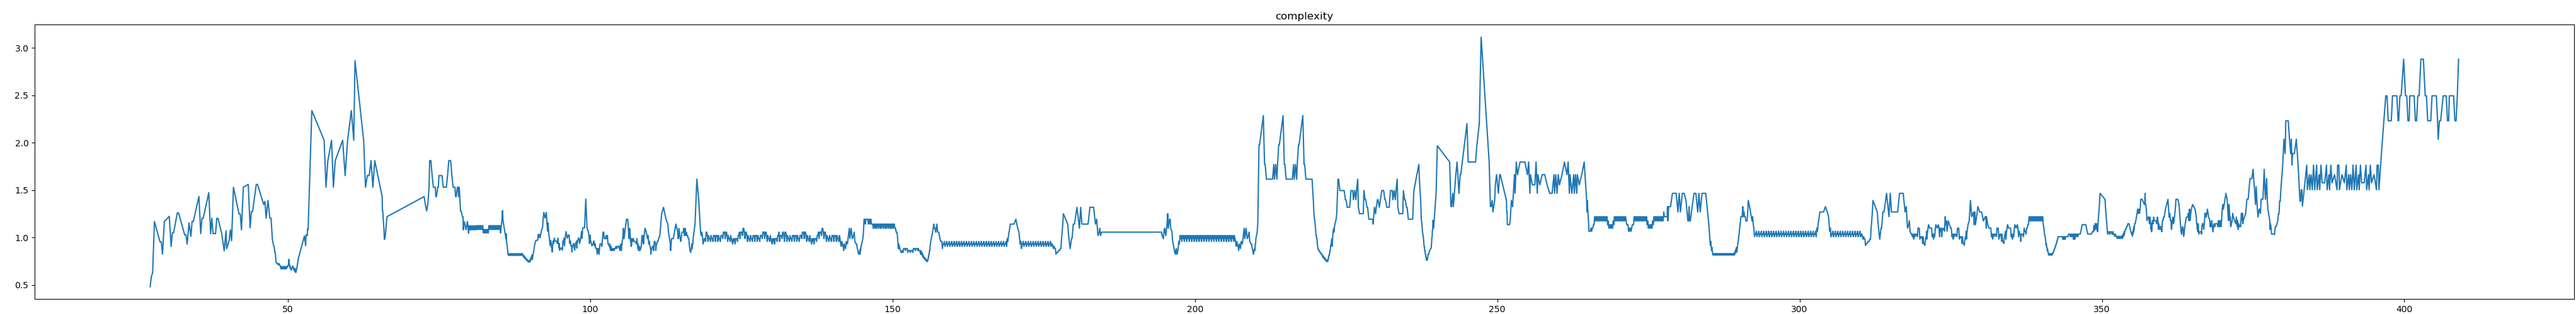
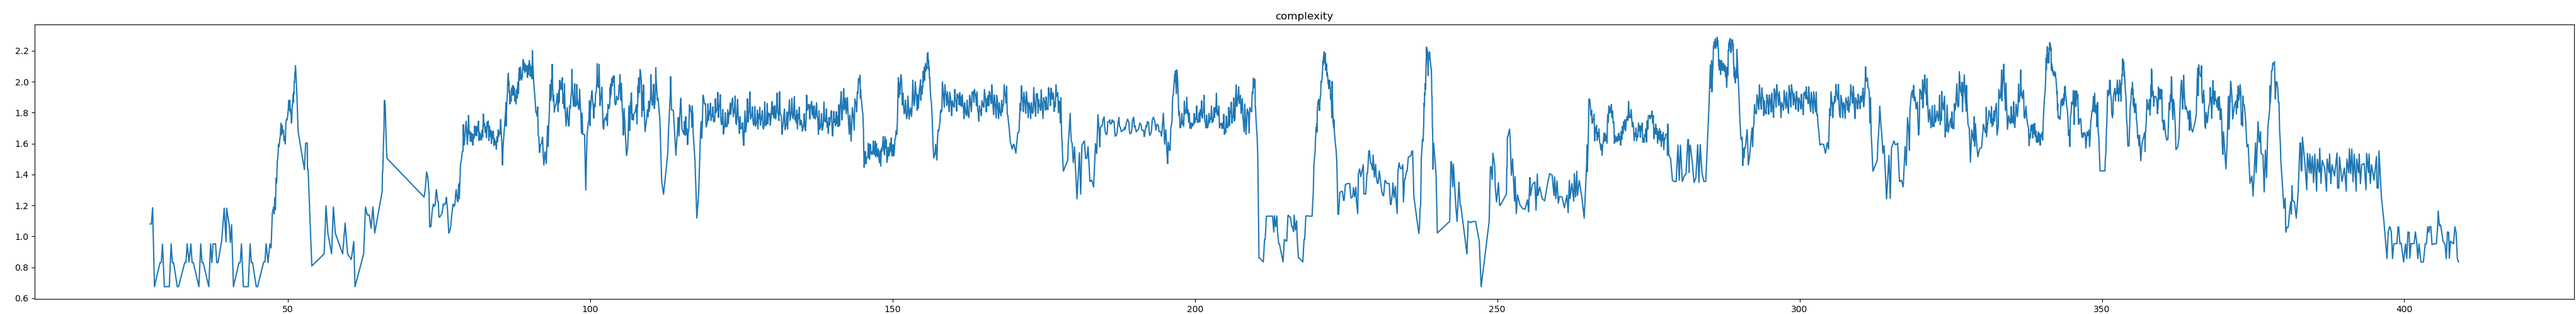
Corrected Calc_complexity

diff --git a/calc_complexity.py b/calc_complexity.py
@@ -29,10 +29,11 @@ def initialize_sample(nb_columns):
     return sample
 
 
-def create_sample(t, columns, i_min, sample):  # Creates the first sample
+def create_sample(t, columns, i_min, sample_base):  # Creates the first sample
     i = 0
     j = 0
     nb_notes_sample = 0
+    sample = np.copy(sample_base)
     t_max = (sample_size - note_placement - 1) * TF_time_scale
     t_min = -TF_time_scale * note_placement
     i = i_min
@@ -60,10 +61,10 @@ def calc_complexity(map, nb_columns, kps):  # Calculates FFT and complexity of a
     t = np.copy(map[:, 2])
     columns = map[:, 0]
     nb_notes = len(t)
-    sample = initialize_sample(nb_columns)
+    base_sample = initialize_sample(nb_columns)
     while i < len(t):
         t -= t[i]
-        (fft_sample, nb_notes_sample, i_min) = create_sample(t, columns, i_min, sample)
+        (sample, nb_notes_sample, i_min) = create_sample(t, columns, i_min, base_sample)
 
         a_sample = np.array(sample)
         fft_sample = abs(np.fft.rfft2(a_sample))
@@ -71,8 +72,7 @@ def calc_complexity(map, nb_columns, kps):  # Calculates FFT and complexity of a
         # Currently complexity is just the sum of the absolute value of FFT' s coefficients
         base_complexity = np.sum(fft_sample)
         next_complexity = base_complexity - np.sum(fft_sample[0, 0])
-        next_complexity = next_complexity / (
-                np.sqrt(nb_notes_sample) * sample_size * (nb_columns + (nb_columns - 1) * space_btw_columns))
+        next_complexity = next_complexity / ( sample_size * (nb_columns + (nb_columns - 1) * space_btw_columns))
         while i < len(t) and t[i] == 0:
             complexity.append(next_complexity)
             i += 1

diff --git a/lot_of_graphs.py b/lot_of_graphs.py
@@ -77,14 +77,14 @@ def kps(t, complexity, name):
 
 
 def accuracy(data):
-    plt.figure(figsize=(20, 10))
+    plt.figure(figsize=(40, 20))
     plt.title(" 'accuracy' VS player_level")
     for c, (difficulty, name) in enumerate(data):
         k = c // 10
         tab = ['-', '--', '-.', ':']
         plt.plot(np.linspace(0, len(difficulty) * 0.001, len(difficulty)), difficulty, label=name, linestyle=tab[k])
     plt.legend()
-    plt.savefig("graphs/+ Accuracy.png")
+    plt.savefig("graphs/Accuracy.png")
     plt.show()
 
 

diff --git a/main.py b/main.py
@@ -75,7 +75,7 @@ for element in os.listdir(folder_path):
 
             # Calculates the accuracy depending on the player_level
             # The difficulty is considered the player_level at 95% accuracy
-            difficulty =  np.array(kps) # + np.array(complexity)
+            difficulty =  np.array(felt_kps) + np.array(complexity)
             (overall_difficulty, overall_difficulty_95) = calc_overall_difficulty(difficulty)
 
             # Writes information into the file
